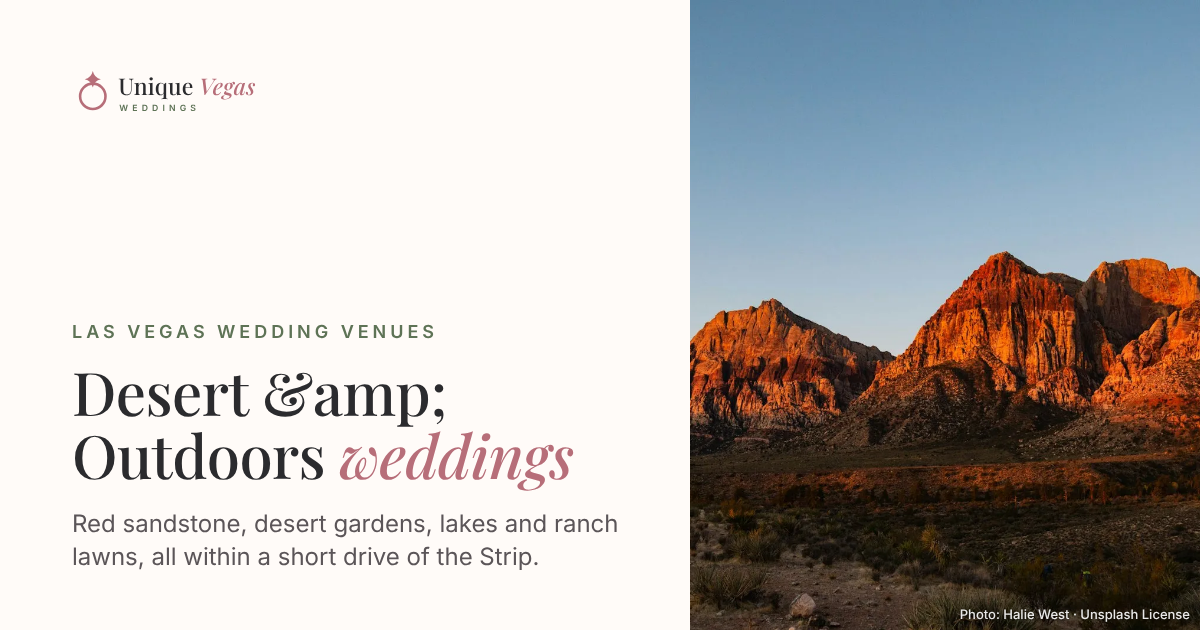
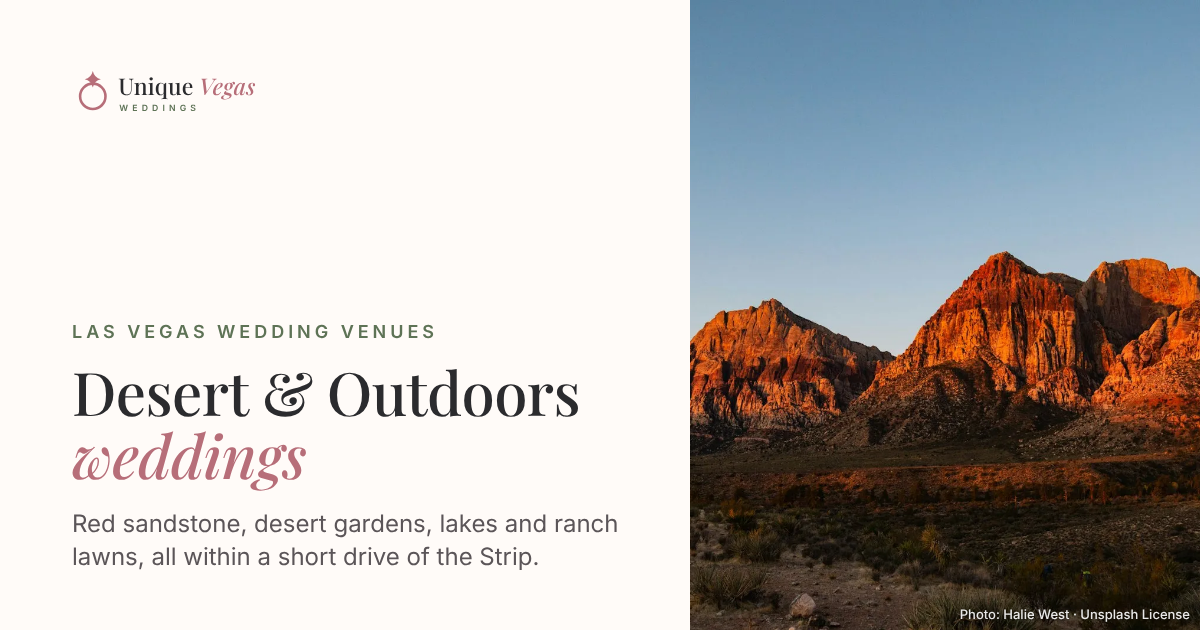
Discover: photo-led images for every article
- New scripts/discover-images.py makes 1200px 16:9, 4:3 and 1:1 crops of each
  licensed photo (on-image credit for CC BY / BY-SA) in src/assets/discover/.
- Blog posts and guides now use their own photo for og:image, the Article/
  BlogPosting schema image (all three ratios), RSS media:content, and a visible
  lead photo with credit under the headline. Share cards stay on other pages.
- Posts get a `photo` field; each existing post now has a distinct lead photo
  (five posts were sharing the same desert card).
- Fix double-escaped "&amp;" on the category share cards.
- Playbook: daily posts set `photo`; run the script when adding a photo.

Claude-Session: https://claude.ai/code/session_01NMu9nnYVuH9QmnBnVDiYgw

Changed region(s): [[0.0617, 0.573, 0.4933, 0.7841]]

diff --git a/src/assets/css/site.css b/src/assets/css/site.css
@@ -357,6 +357,8 @@ table.data td.num { white-space: nowrap; font-variant-numeric: tabular-nums; }
 .art-fig { margin: 0; }
 .photo-credit { font-size: .74rem; line-height: 1.45; color: var(--ink-soft); margin: 8px 0 0; }
 .photo-credit a { color: var(--ink-soft); }
+.article-photo { margin: 26px 0 0; }
+.article-photo img { display: block; width: 100%; height: auto; aspect-ratio: 16 / 9; object-fit: cover; border-radius: var(--radius); background: var(--line); }
 .credits { list-style: none; padding: 0; display: grid; gap: 14px; }
 .credits li { padding-bottom: 12px; border-bottom: 1px solid var(--line); }
 

diff --git a/scripts/discover-images.py b/scripts/discover-images.py
@@ -1,0 +1,67 @@
+"""Full-bleed photo images for Google Discover and article structured data.
+
+For every photo in src/data/photo-credits.json, writes three 1200px-wide JPEGs to
+src/assets/discover/:  <key>-16x9.jpg (1200x675), <key>-4x3.jpg (1200x900), <key>-1x1.jpg (1200x1200).
+
+Why: Discover favors large (1200px+), photo-led images and tells sites not to use a
+logo. Our share cards are half text + logo, so articles point Google at these instead.
+CC BY / BY-SA photos get a small on-image credit, because the image travels without the page.
+
+Run after adding a photo:  python3 scripts/discover-images.py   (add --force to redo all)
+Requires: Pillow.
+"""
+import json, os, sys
+from PIL import Image, ImageDraw, ImageFont, ImageOps
+
+ROOT = os.path.dirname(os.path.dirname(os.path.abspath(__file__)))
+SRC = os.path.join(ROOT, "src", "assets", "photos")
+OUT = os.path.join(ROOT, "src", "assets", "discover")
+SIZES = {"16x9": (1200, 675), "4x3": (1200, 900), "1x1": (1200, 1200)}
+FORCE = "--force" in sys.argv
+
+FONT_PATHS = ["/usr/share/fonts/opentype/inter/Inter-Medium.otf", "/usr/share/fonts/truetype/dejavu/DejaVuSans.ttf"]
+def font(size):
+    for p in FONT_PATHS:
+        if os.path.exists(p):
+            return ImageFont.truetype(p, size)
+    return ImageFont.load_default()
+
+def crop_to(im, w, h):
+    # Landscape sources crop from the center; portrait sources keep a little more of the top,
+    # where the subject usually sits.
+    return ImageOps.fit(im, (w, h), Image.LANCZOS, centering=(0.5, 0.5 if im.width >= im.height else 0.4))
+
+def credit(im, p):
+    text = f"Photo: {p.get('creator') or 'unknown'} · {p['license']}"
+    d = ImageDraw.Draw(im, "RGBA")
+    f = font(20)
+    x0, y0, x1, y1 = d.textbbox((0, 0), text, font=f)
+    tw, th = x1 - x0, y1 - y0
+    x, y = im.width - tw - 18, im.height - th - 16
+    d.rounded_rectangle((x - 10, y - 7, x + tw + 10, y + th + 9), radius=8, fill=(0, 0, 0, 110))
+    d.text((x - x0, y - y0), text, font=f, fill=(255, 255, 255, 235))
+
+photos = json.load(open(os.path.join(ROOT, "src", "data", "photo-credits.json")))
+os.makedirs(OUT, exist_ok=True)
+made, small = 0, []
+for key, p in photos.items():
+    src = os.path.join(SRC, key + ".webp")
+    if not os.path.exists(src):
+        print("missing source photo:", key); continue
+    im = None
+    for tag, (w, h) in SIZES.items():
+        dst = os.path.join(OUT, f"{key}-{tag}.jpg")
+        if os.path.exists(dst) and not FORCE:
+            continue
+        if im is None:
+            im = Image.open(src).convert("RGB")
+            if im.width < 1200:
+                small.append(f"{key} ({im.width}x{im.height})")
+        out = crop_to(im, w, h)
+        if p["license"].startswith("CC BY"):
+            credit(out, p)
+        out.save(dst, "JPEG", quality=80, optimize=True, progressive=True)
+        made += 1
+print(f"wrote {made} images to src/assets/discover/")
+if small:
+    print("upscaled to 1200px (source under 1200px wide; replace with a larger original when you can):", ", ".join(small))

diff --git a/docs/blog-playbook.md b/docs/blog-playbook.md
@@ -3,9 +3,11 @@
 The blog is called **Off-Script** (from the site tagline, "Vegas weddings, off-script"). Call it that in copy, never "the blog" in headings. One new post goes live on uniquevegasweddings.com every day. This file is the standing brief for whoever writes it (usually the scheduled Claude task). Topic queue: `docs/blog-topics.md`.
 
 ## Where posts live
-- One file per post: `src/content/blog/YYYY-MM-DD-slug.mjs`. Copy the newest post's structure exactly (fields: slug, date, category, eyebrow, tags, guides, seoTitle, metaDescription, title, description, answer, readMins, body, faq, sources).
+- One file per post: `src/content/blog/YYYY-MM-DD-slug.mjs`. Copy the newest post's structure exactly (fields: slug, date, photo, category, eyebrow, tags, guides, seoTitle, metaDescription, title, description, answer, readMins, body, faq, sources).
 - `date` is the publish date (Pacific time). A future date stays hidden until a build runs on or after it.
-- `category` is one of the six venue category slugs. It picks the post's share image.
+- `category` is one of the six venue category slugs.
+- `photo` is the post's lead image: a key from `src/data/photo-credits.json` (a venue slug with a real photo, or a `cat-…`/`hero-…` photo). It shows under the headline and is what Google Discover, Facebook and the RSS feed use. Pick a photo of a place the post actually covers, and don't reuse the photo of either of the last 3 posts. If you leave it out, the build uses the first pictured venue in the post's `{{venue-picks}}`, then the category photo. Never point it at an illustration-only venue.
+- Adding a new photo to `photo-credits.json`? Run `python3 scripts/discover-images.py` before building so its 1200px Discover crops exist.
 - `guides` lists 1–3 related guide slugs from `src/content/guides.mjs`.
 - Body is HTML using the same pieces as the guides: `<p class="lede">`, `<h2>`, `<div class="quickfacts">`, `<ul class="checklist">`, `<div class="note">`, and the tokens `{{venue-picks:slug,slug}}`, `{{planner-cta}}`, `{{season-now}}`, `{{price-table}}`, `{{climate-table}}`.
 
